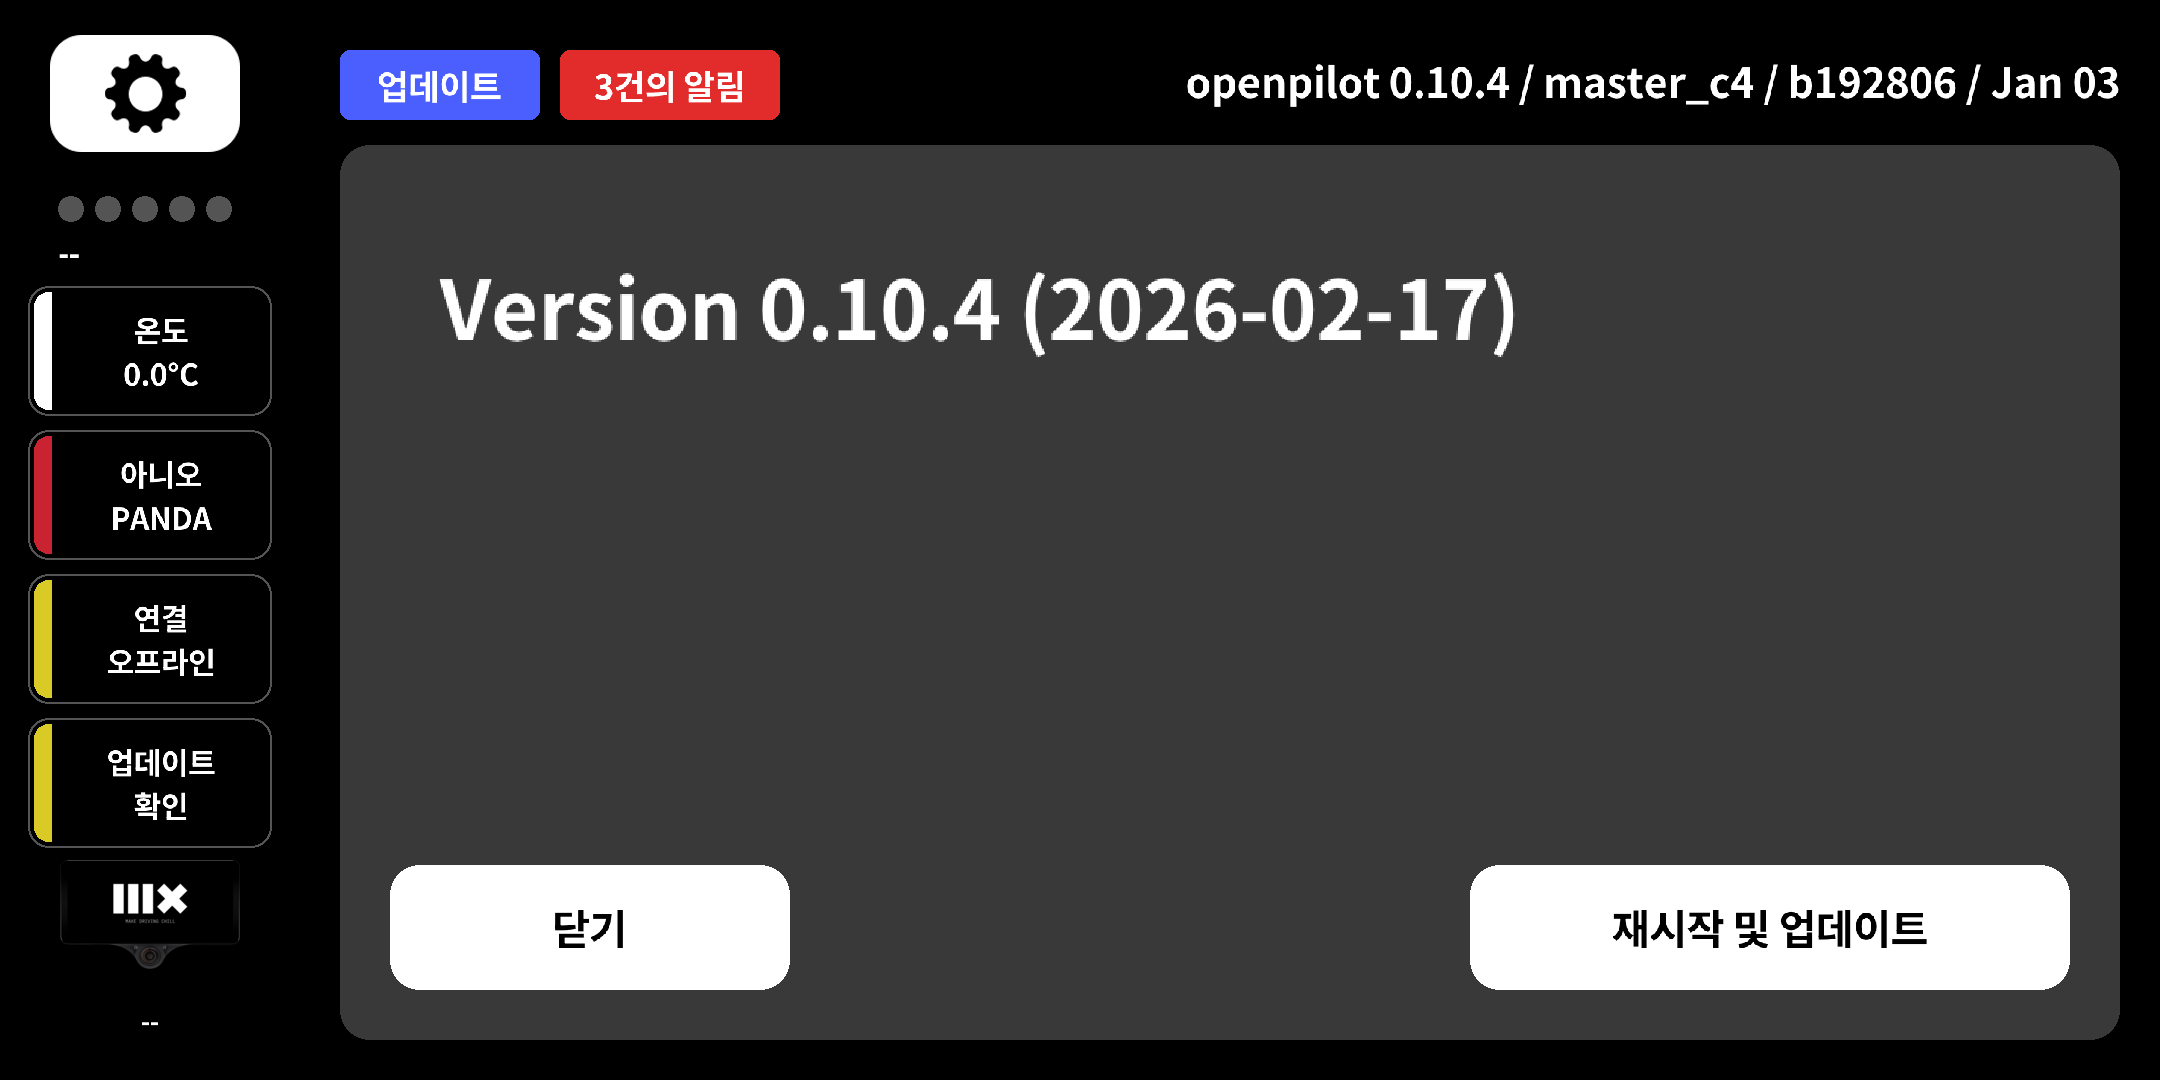
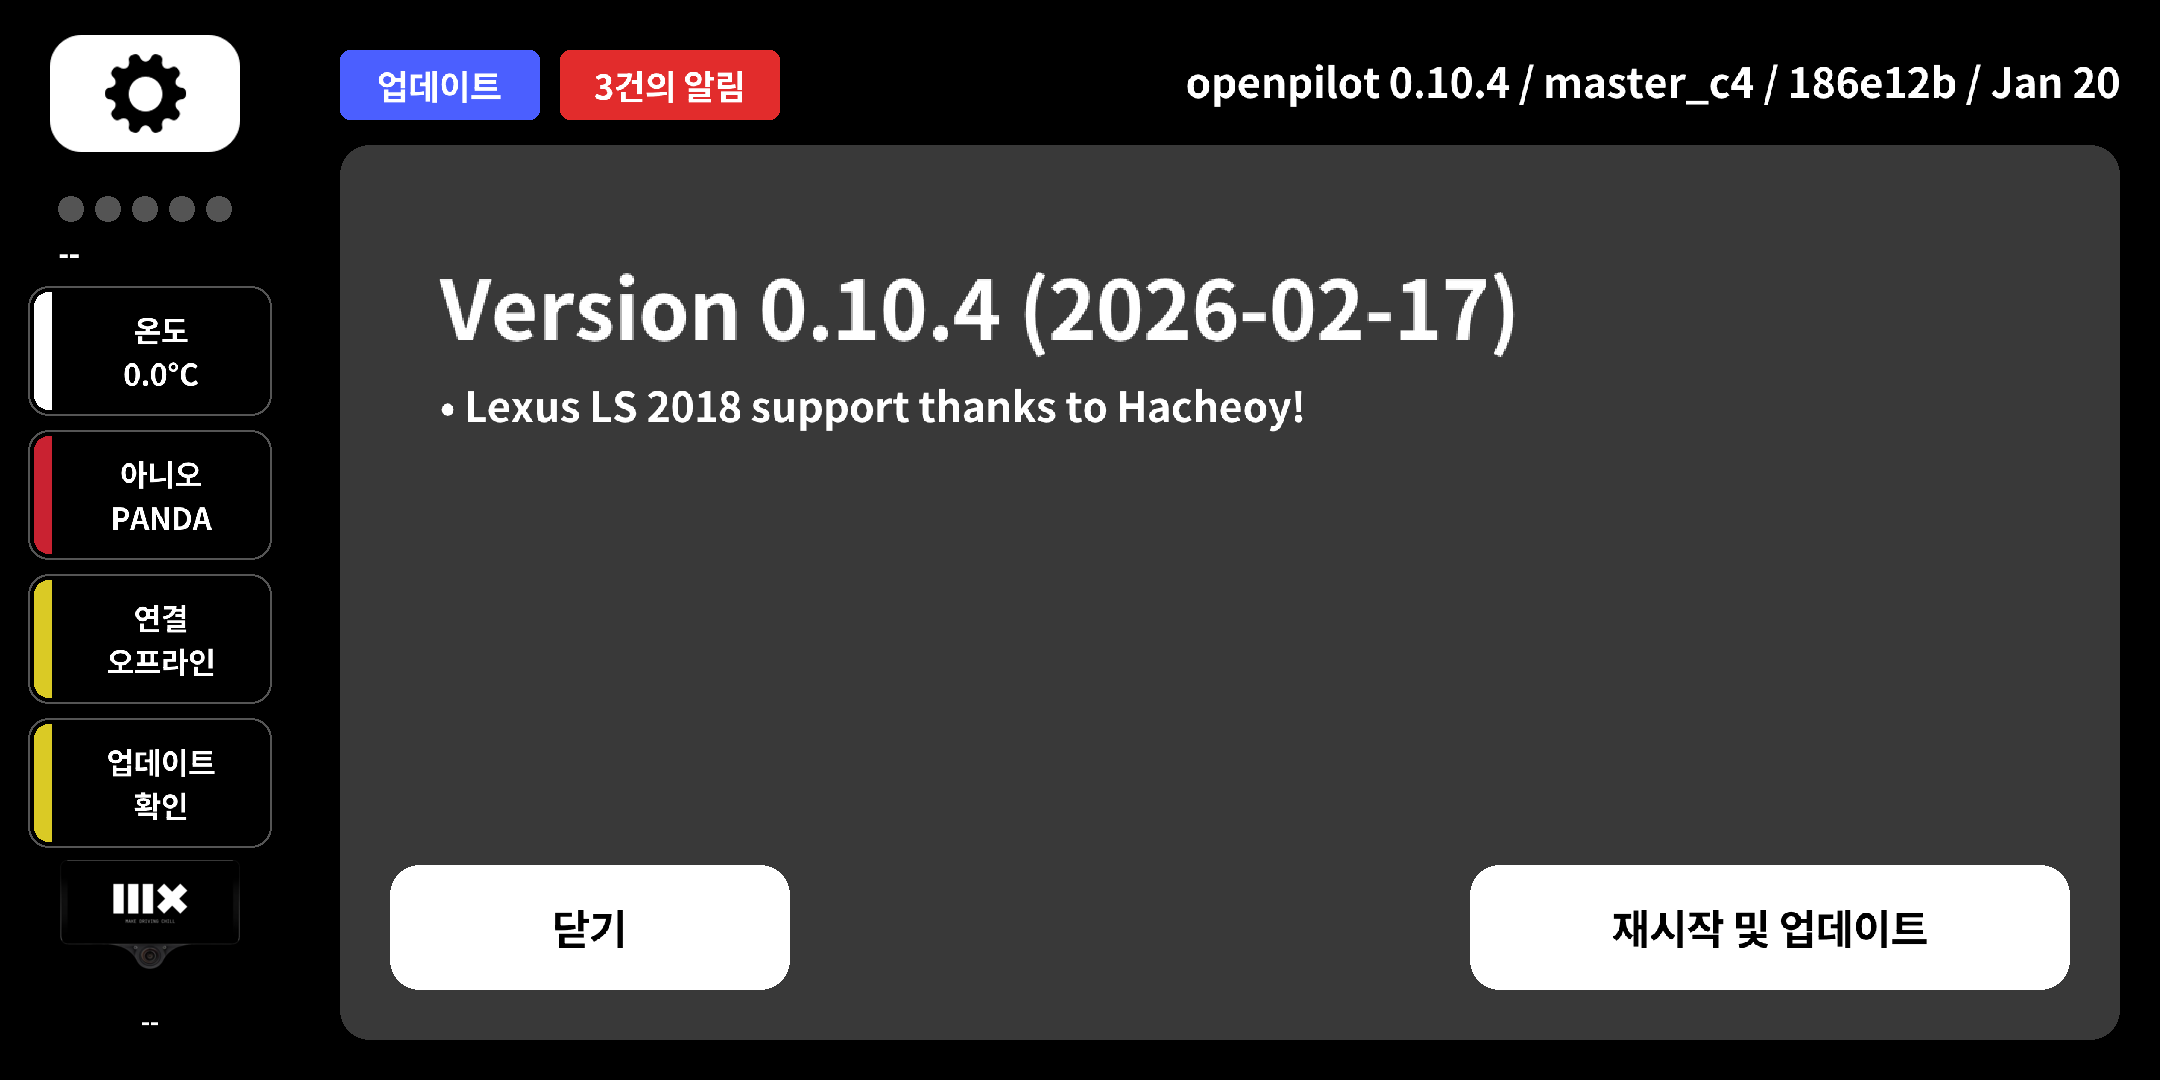
raylib screenshots for commit 186e12b on master_c4

Changed region(s): [[0.2171, 0.3667, 0.6204, 0.3972], [0.8065, 0.0611, 0.8995, 0.0917], [0.9616, 0.0611, 0.9926, 0.0917]]

diff --git a/README.md b/README.md
@@ -1,4 +1,4 @@
-# Raylib UI Screenshots: b192806
+# Raylib UI Screenshots: 186e12b
 This branch is automatically updated with raylib screenshots from the `master_c4` branch of `crwusiz/openpilot`.
 
 ## Latest Screenshots
